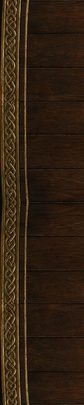
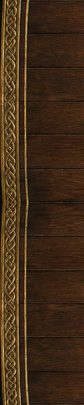
修长桌中心与边条的色差和长方形轮廓
实机可见「四周和中间有色差，一个明显的长方形轮廓」。两个独立原因叠加：

1. 中心用 cover，缩放比例随桌子形状变（0.269-0.608），而边条是固定的 0.323。
   正方形那档中心木纹比边条粗 1.88 倍。改成和边条同一固定比例镜像平铺
   （background-size: 439rpx 270rpx, repeat）。实测中心区域永远小于一块图块，
   所以平铺不会真的发生，镜像接缝看不到。

2. 源图自带低频光照梯度，切开重组后在交界处变成亮度台阶。slice9.py 加 --flatten：
   算低频亮度场，用「目标/实测」的单一标量增益乘 RGB 三通道并钳在 [0.65,1.5]。
   注意是同一标量乘三通道，不是逐通道各算各的——后者在通道接近 0 时会爆，
   正是手册 5.4 毁掉两套扁平皮肤的那个坑。中线亮度极差 68.7 → 49.3。

六种真实比例重新验证过，轮廓消失。

diff --git a/scripts/slice9.py b/scripts/slice9.py
@@ -22,10 +22,33 @@ import pathlib
 
 from PIL import Image
 import numpy as np
+from scipy import ndimage
 
 # 切角尺寸的下限：.long-table 的 border-radius 是 32rpx = 16pt = 48px @3x，
 # 切角必须完整包住圆角，否则圆角会被边条的平铺切断
 MIN_INSET = 60
+
+
+def flatten_light(im, strength=1.0, clamp=(0.65, 1.5)):
+    """拉平低频光照。九宫格把一张图切开又重组，源图自带的光照梯度会在
+    边条与中心的交界处变成一道台阶——实机看就是「中间一个长方形轮廓」。
+
+    做法：算出低频亮度场，用「目标/实测」的**单一标量**增益去乘 RGB 三个通道。
+    注意是同一个标量乘三通道，不是逐通道各算各的——后者在通道接近 0 时会爆，
+    正是手册 5.4 毁掉两套扁平皮肤的那个坑。再把增益钳在 clamp 内，双保险。
+    """
+    a = np.asarray(im.convert("RGBA"), np.float32) / 255.0
+    rgb, alpha = a[..., :3], a[..., 3]
+    lum = rgb @ [0.2126, 0.7152, 0.0722]
+    sigma = max(im.size) / 12.0            # 只拉平比这更低频的成分，木纹保持不动
+    w = ndimage.gaussian_filter(lum * alpha, sigma)
+    n = ndimage.gaussian_filter(alpha, sigma)
+    low = w / np.maximum(n, 1e-3)          # 只在物体内部统计，别把外面的透明区算进来
+    target = np.median(low[alpha > 0.5]) if (alpha > 0.5).any() else low.mean()
+    gain = np.clip(target / np.maximum(low, 1e-3), *clamp)
+    gain = 1.0 + (gain - 1.0) * strength
+    out = np.concatenate([np.clip(rgb * gain[..., None], 0, 1), alpha[..., None]], axis=2)
+    return Image.fromarray((out * 255).round().astype(np.uint8), "RGBA")
 
 
 def alpha_bbox(im):
@@ -128,8 +151,18 @@ def compose(parts, inset_src, inset_out, w, h, feather=0):
     # 中心向四周多铺 feather 像素，垫在边条底下，供渐隐时透出来
     e = min(feather, inset_out)
     cw, ch = w - inset_out * 2, h - inset_out * 2
-    out.alpha_composite(cover(parts["center"], cw + e * 2, ch + e * 2),
-                        (inset_out - e, inset_out - e))
+    # 中心按**和边条相同的固定比例**平铺，不用 cover——见 main() 里的注释
+    ctile = mirror_tile(mirror_tile(
+        parts["center"].crop((parts["center"].width // 4, 0,
+                              parts["center"].width * 3 // 4, parts["center"].height)),
+        "x"), "y")
+    ctile = sc(ctile)
+    field = Image.new("RGBA", (cw + e * 2, ch + e * 2), (0, 0, 0, 0))
+    for yy in range(0, field.height, ctile.height):
+        for xx in range(0, field.width, ctile.width):
+            field.alpha_composite(ctile.crop((0, 0, min(ctile.width, field.width - xx),
+                                              min(ctile.height, field.height - yy))), (xx, yy))
+    out.alpha_composite(field, (inset_out - e, inset_out - e))
     for name, side, pos, size, axis in [
             ("edge_top", "top", (inset_out, 0), (cw, inset_out), "x"),
             ("edge_bottom", "bottom", (inset_out, h - inset_out), (cw, inset_out), "x"),
@@ -154,6 +187,9 @@ def main():
     ap.add_argument("--preview-h", type=int, default=300, help="预览图的高（物理像素）")
     ap.add_argument("--render-inset", type=int, default=54,
                     help="落地时切角渲染成多少物理像素（= CSS 给角的 background-size）")
+    ap.add_argument("--flatten", type=float, default=0,
+                    help="拉平低频光照的强度 0-1。九宫格重组后源图的光照梯度会在"
+                         "边条与中心交界处变成台阶，切之前拉平掉。0 = 不处理")
     ap.add_argument("--feather", type=int, default=18,
                     help="边条内侧的渐隐宽度（物理像素），抹平边条与中心的木纹台阶")
     args = ap.parse_args()
@@ -166,6 +202,9 @@ def main():
         raise SystemExit("这张图没有透明通道，先用 scripts/cut-glow.py 抠出来")
     box = alpha_bbox(src)
     src = src.crop(box)
+    if args.flatten > 0:
+        src = flatten_light(src, args.flatten)
+        print("已拉平低频光照，强度 %.2f" % args.flatten)
     print("裁到外接框 %dx%d" % src.size)
 
     outdir = pathlib.Path(args.out)
@@ -174,6 +213,14 @@ def main():
     for name, im in parts.items():
         if name.startswith("edge_"):
             im = mirror_tile(im, "x" if name in ("edge_top", "edge_bottom") else "y")
+        elif name == "center":
+            # 中心也要能无缝平铺。用 cover 的话缩放比例随容器形状变——
+            # 实测正方形那档中心木纹比边条粗 1.88 倍，交界处出现明显的长方形轮廓。
+            # 改成和边条一样的固定比例平铺，两边的木纹就对得上了。
+            # 先取中段再双向镜像：整块镜像文件太大，而镜像后从哪儿裁都无缝。
+            w4 = im.width // 2
+            im = im.crop(((im.width - w4) // 2, 0, (im.width + w4) // 2, im.height))
+            im = mirror_tile(mirror_tile(im, "x"), "y")
         im.save(outdir / ("%s.png" % name))
         print("  %-12s %dx%d" % (name, *im.size))
 

diff --git a/scripts/export-assets.py b/scripts/export-assets.py
@@ -177,9 +177,12 @@ def export_ui():
         else:
             # 边条只把「厚度」那一轴缩到 SLICE_OUT，长度按比例——它要沿另一轴平铺
             horiz = f.stem in ("edge_top", "edge_bottom")
-            k = SLICE_OUT / (im.height if horiz else im.width)
+            k = SLICE_OUT / 260   # 切片 inset 是 260，所有块用同一个缩放比
             if f.stem == "center":
-                sz = (512, 256)
+                # 中心和边条同比例平铺，所以按同一个 k 缩，不能给固定尺寸——
+                # 尺寸一变比例就和边条对不上，交界处又会出现长方形轮廓
+                k = SLICE_OUT / 260
+                sz = (max(1, round(im.width * k)), max(1, round(im.height * k)))
             else:
                 sz = (max(1, round(im.width * k)), max(1, round(im.height * k)))
             n = export(f, DST / "ui/table-long" / (f.stem + ".jpg"), sz, q=82)

diff --git a/docs/assets/界面资产接线说明.md b/docs/assets/界面资产接线说明.md
@@ -189,7 +189,8 @@ const LONG_TABLE_SLICES = [
   ["edge_bottom.jpg", "56rpx bottom", "auto 56rpx", "repeat-x"],
   ["edge_left.jpg",   "left 56rpx",   "56rpx auto", "repeat-y"],
   ["edge_right.jpg",  "right 56rpx",  "56rpx auto", "repeat-y"],
-  ["center.jpg",      "center",       "cover",      "no-repeat"],
+  // 中心**不能用 cover**，必须固定尺寸平铺，理由见下
+  ["center.jpg",      "center",       "439rpx 270rpx", "repeat"],
 ]
 
 // 顺序即层序：先列的画在上面，所以角在最上、边其次、中心垫底。不要重排。
@@ -213,6 +214,25 @@ function longTableBackground() {
 }
 ```
 
+### 中心为什么不能用 `cover`
+
+`cover` 的缩放比例**随容器形状变**，而边条是固定的。实测：
+
+| 桌子形状 | 中心 cover 缩放 | 和边条固定比例的差 |
+|---|---|---|
+| 68×28（最扁 2.43） | 0.269 | 0.83 倍 |
+| 62×42（1.48） | 0.325 | 1.01 倍 |
+| 62×62（正方 1.00） | 0.608 | **1.88 倍** |
+
+正方形那档中心的木纹比边条粗近一倍，交界处就出现一个**明显的长方形轮廓**。
+改成和边条同一个固定比例平铺（`439rpx 270rpx`）就对上了。
+
+中心图块已经双向镜像过，从哪儿裁都无缝。而且实测中心区域**永远小于一块图块**
+（最大 485×381px，图块 658×405px），所以平铺不会真的发生，镜像接缝看不到。
+
+> 源图的低频光照梯度也会在交界处变成台阶，切片时已用 `slice9.py --flatten 1.0`
+> 拉平（中线亮度极差 68.7 → 49.3）。换桌子图重切时**别忘了带这个参数**。
+
 **边条已经镜像拼贴过**，`repeat-x` / `repeat-y` 不会有接缝——
 生成图的边缘不可能天然无缝，切片时取一段边条水平镜像后接上，
 得到的两倍宽图块按构造必然无缝。**不要自己重新裁切边条**，会破坏这个性质。
@@ -220,10 +240,6 @@ function longTableBackground() {
 **已验证**：上面这套参数在 6 种真实比例（2.43 / 1.88 / 1.48 / 1.26 / 1.17 / 1.00）下
 逐一渲染过，角块完整、边条无接缝、中心不变形。渲染脚本忠实模拟了 CSS 的层序、
 双向平铺和 `border-radius` 裁剪，产物见 `generated/界面/_选片/长桌各形状.png`。
-
-**已知的小瑕疵**：中心是 `cover` 裁切源图，而源图本身有轻微的光照梯度，
-所以某些比例下中心偏右会有一道很淡的明暗台阶（1.88 和 1.26 那两档最明显）。
-不影响使用，介意的话换一张光照更均匀的长桌重切即可。
 
 **`border-image` 能把这 9 行压成 1 行**，切片还是同一套，而且它天然处理内缩、
 不会有平铺铺到角块底下的问题。但**没在小程序 wxss 里验证过支不支持**——

diff --git a/docs/assets/生图工作手册.md b/docs/assets/生图工作手册.md
@@ -389,10 +389,15 @@ const height = Math.max(left, right) ? Math.min(62, 24 + Math.max(left,right) * 
 | 四角 | 固定像素，永不缩放——最精致的雕花放这里 |
 | 上下边 | 只沿水平方向平铺 |
 | 左右边 | 只沿垂直方向平铺 |
-| 中心 | `cover` 裁切，只丢边不变形 |
+| 中心 | **固定比例平铺**，不能用 `cover`（见下） |
 
 三个实践要点：
 
+0. **中心不能用 `cover`。** `cover` 的缩放随容器形状变，而边条是固定的。
+   实测正方形那档中心木纹比边条粗 **1.88 倍**，交界处出现一个明显的长方形轮廓。
+   中心也要镜像拼贴成无缝图块，用**和边条相同的固定比例**平铺。
+   顺带：源图的低频光照梯度同样会在交界处变成台阶，切之前用 `--flatten` 拉平
+   （单一标量增益乘三通道并钳位，不是逐通道——后者就是 5.4 那个坑）。
 1. **边条必须镜像拼贴。** 生成图的边缘不可能天然无缝，直接 `repeat` 会露接缝。
    取一段边条、水平镜像后接上，两倍宽的图块**按构造必然无缝**。
 2. **边条内侧要渐隐。** 边条和中心一刀切的话，源图自身的光照梯度会让两边木纹
